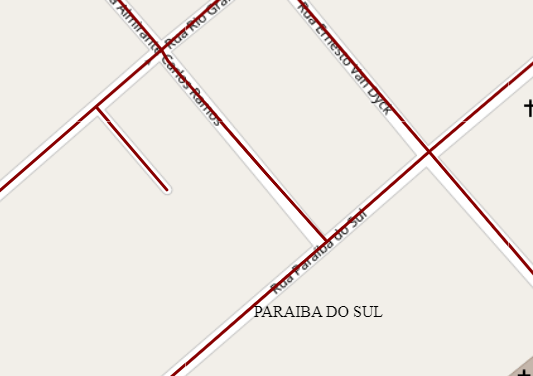
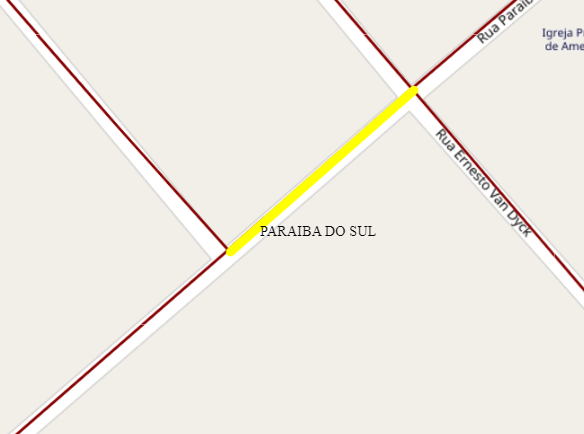
Melhorando o exemplo do Openlayers com highlight da geometria.

diff --git a/app/index.js b/app/index.js
@@ -8,6 +8,9 @@ import { VectorTile as VectorTileSource} from 'ol/source';
 import {Stroke, Style} from 'ol/style';
 import {createXYZ} from 'ol/tilegrid';
 import Overlay from 'ol/Overlay';
+import VectorSource from 'ol/source/Vector';
+import VectorLayer from 'ol/layer/Vector';
+import { Feature } from 'ol';
 
 var raster = new TileLayer({
   source: new OSM()
@@ -19,6 +22,21 @@ var degrees2meters = function(lon,lat) {
   y = y * 20037508.34 / 180;
   return [x, y]
 }
+
+var highlightSource = new VectorSource();
+
+var highlightStyle = new Style({
+  stroke: new Stroke({
+    color: 'yellow',
+    width: 10
+  })
+});
+
+var highlightLayer = new VectorLayer({
+  source: highlightSource,
+  style: highlightStyle
+});
+
 
 var styleSimple = new Style({
   stroke: new Stroke({
@@ -33,14 +51,16 @@ var vectorTileLayer = new VectorTile(
     source: new VectorTileSource({
       tilePixelRatio: 1, // oversampling when > 1
       tileGrid: createXYZ({maxZoom: 19}),
-      format: new MVT(),
+      format: new MVT({
+        featureClass: Feature
+      }),
       url: 'http://localhost:8080/geoserver/gwc/service/tms/1.0.0/vector_tiles_workspace:logradouro@EPSG%3A900913@pbf/{z}/{x}/{-y}.pbf'
     })
   }
 );
 
 var map = new Map({
-  layers: [raster, vectorTileLayer],
+  layers: [raster, vectorTileLayer, highlightLayer],
   target: 'map',
   view: new View({
     center: degrees2meters(-46.643033731127005, -23.67397873817854),
@@ -57,13 +77,16 @@ var label = null;
 
 map.on('pointermove', function(e) {
 
-  vectorTileLayer.getFeatures(e.pixel).then(featureList => {
+  highlightSource.clear();
 
-    featureList.forEach(feature => {
-      label = feature.get('lg_nome');
-      info.style.display = label ? '' : 'none';
-      info.innerHTML = label;
-      overlay.setPosition(e.coordinate);
-    });
+  map.forEachFeatureAtPixel(e.pixel, function(feature) {
+    label = feature.get('lg_nome');
+    info.style.display = label ? '' : 'none';
+    info.innerHTML = label;
+    overlay.setPosition(e.coordinate);
+
+    highlightSource.addFeature(new Feature(feature.getGeometry()));
+  }, {
+    hitTolerance: 7
   });
 });

diff --git a/README.md b/README.md
@@ -160,7 +160,7 @@ Depois rodamos a aplicação:
 
     npm run start
 
-Ela fica acessível em [http://localhost:4200](http://localhost:4200 "http://localhost:4200"). O mapa é bem simples, possui como pano de fundo uma camada Open Street Maps e o dado de logradouros é desenhado por cima. Ao passar o mouse nas feições, você visualiza o atributo nome dela, demonstrando assim que o que temos ali no front é a geometria e seus atributos recuperados via Vector Tiles. O código que permite essa interação pode ser visualizado em [app/index.js](app/index.js "app/index.js")
+Ela fica acessível em [http://localhost:4200](http://localhost:4200 "http://localhost:4200"). O mapa é bem simples, possui como pano de fundo uma camada Open Street Maps e o dado de logradouros é desenhado por cima. Ao passar o mouse nas feições, você visualiza um highlight da geometria e o atributo "nome" dela, demonstrando assim que o que temos ali no front é a geometria e seus atributos recuperados via Vector Tiles. O código que permite essa interação pode ser visualizado em [app/index.js](app/index.js "app/index.js")
 
 ![](images/openlayers-frontend.png)
 
